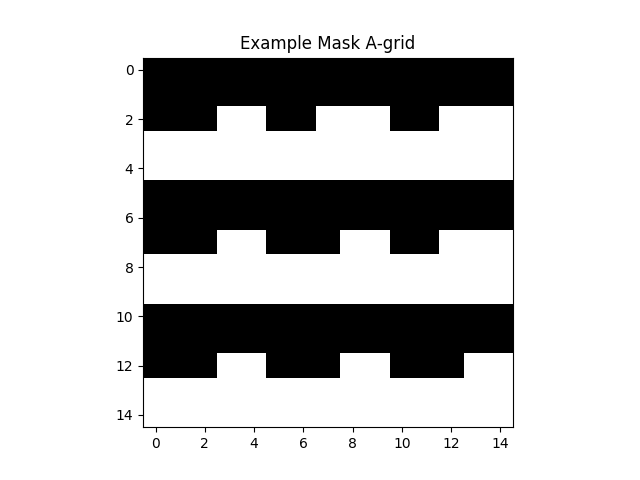
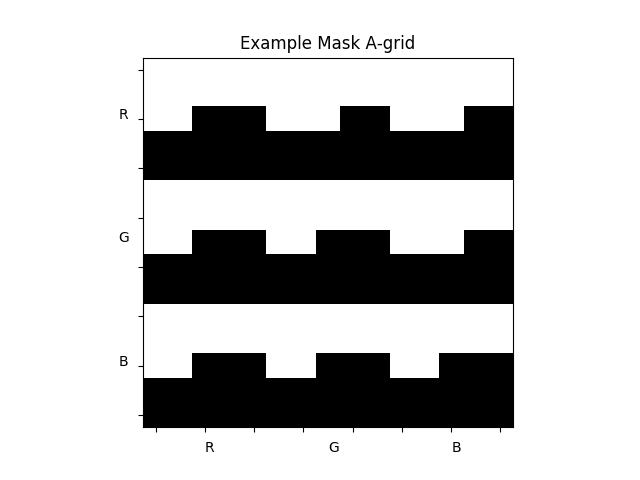
changed masking

diff --git a/hw1/pixelCNN.py b/hw1/pixelCNN.py
@@ -265,19 +265,6 @@ def display_image_grid(data, title):
     plot_image(disp, title)
 
 
-def display_image_rows(data, title):
-    """
-    data is shape (n, h, w, c)
-    plots n rows of images
-    """
-    c = data.shape[3]
-    disp = np.concatenate(data, axis=0)
-    title = "{}-grid".format(title) if title is not None else None
-    if c == 1:
-        disp = np.squeeze(disp)
-    plot_image(disp, title)
-
-
 def test_maskA():
     mask_shape = (5, 5, 3, 3)
     mask = get_pixelcnn_mask(mask_shape, True)
@@ -289,9 +276,19 @@ def display_mask(mask, title):
     # so rows are prev layer's channels, cols are this layer's
     # concat by prev layer channels into row images, then this channel dim is each image in the row (cols)
     mask_disp = np.concatenate(mask.transpose([3, 1, 0, 2]), axis=0).transpose([2, 1, 0])[..., None]
-    print(mask_disp.shape)
-    # mask_disp = mask.reshape(mask_shape[:2] + (-1, 1)).transpose([2, 0, 1, 3])
-    display_image_rows(mask_disp, title)
+    # data is shape (n, h, w, c)
+    # plots n rows of images
+    c = mask_disp.shape[3]
+    disp = np.concatenate(mask_disp, axis=0)
+    title = "{}-grid".format(title) if title is not None else None
+    if c == 1:
+        disp = np.squeeze(disp)
+    letters = ["R", "G", "B"]
+    for i, j in enumerate([2, 7, 12]):
+        plt.text(j, 15.5, letters[i])
+        plt.text(-1.5, j, letters[i])
+    plt.tick_params(labelbottom=False, labelleft=False)
+    plot_image(disp, title)
 
 
 def test_maskB():
@@ -322,9 +319,6 @@ def get_mask(kernel_size, channels_in, channels_out, input_channels, mask_type, 
 
 
 if __name__ == "__main__":
-    # test_maskA()
-    # test_maskB()
-    pixelcnn_mask = get_pixelcnn_mask((5, 5, 3, 3), True)
-    display_mask(pixelcnn_mask, None)
-    pixelcnn_mask = get_pixelcnn_mask((5, 5, 3, 3), False)
-    display_mask(pixelcnn_mask, None)
+    test_maskA()
+    test_maskB()
+
